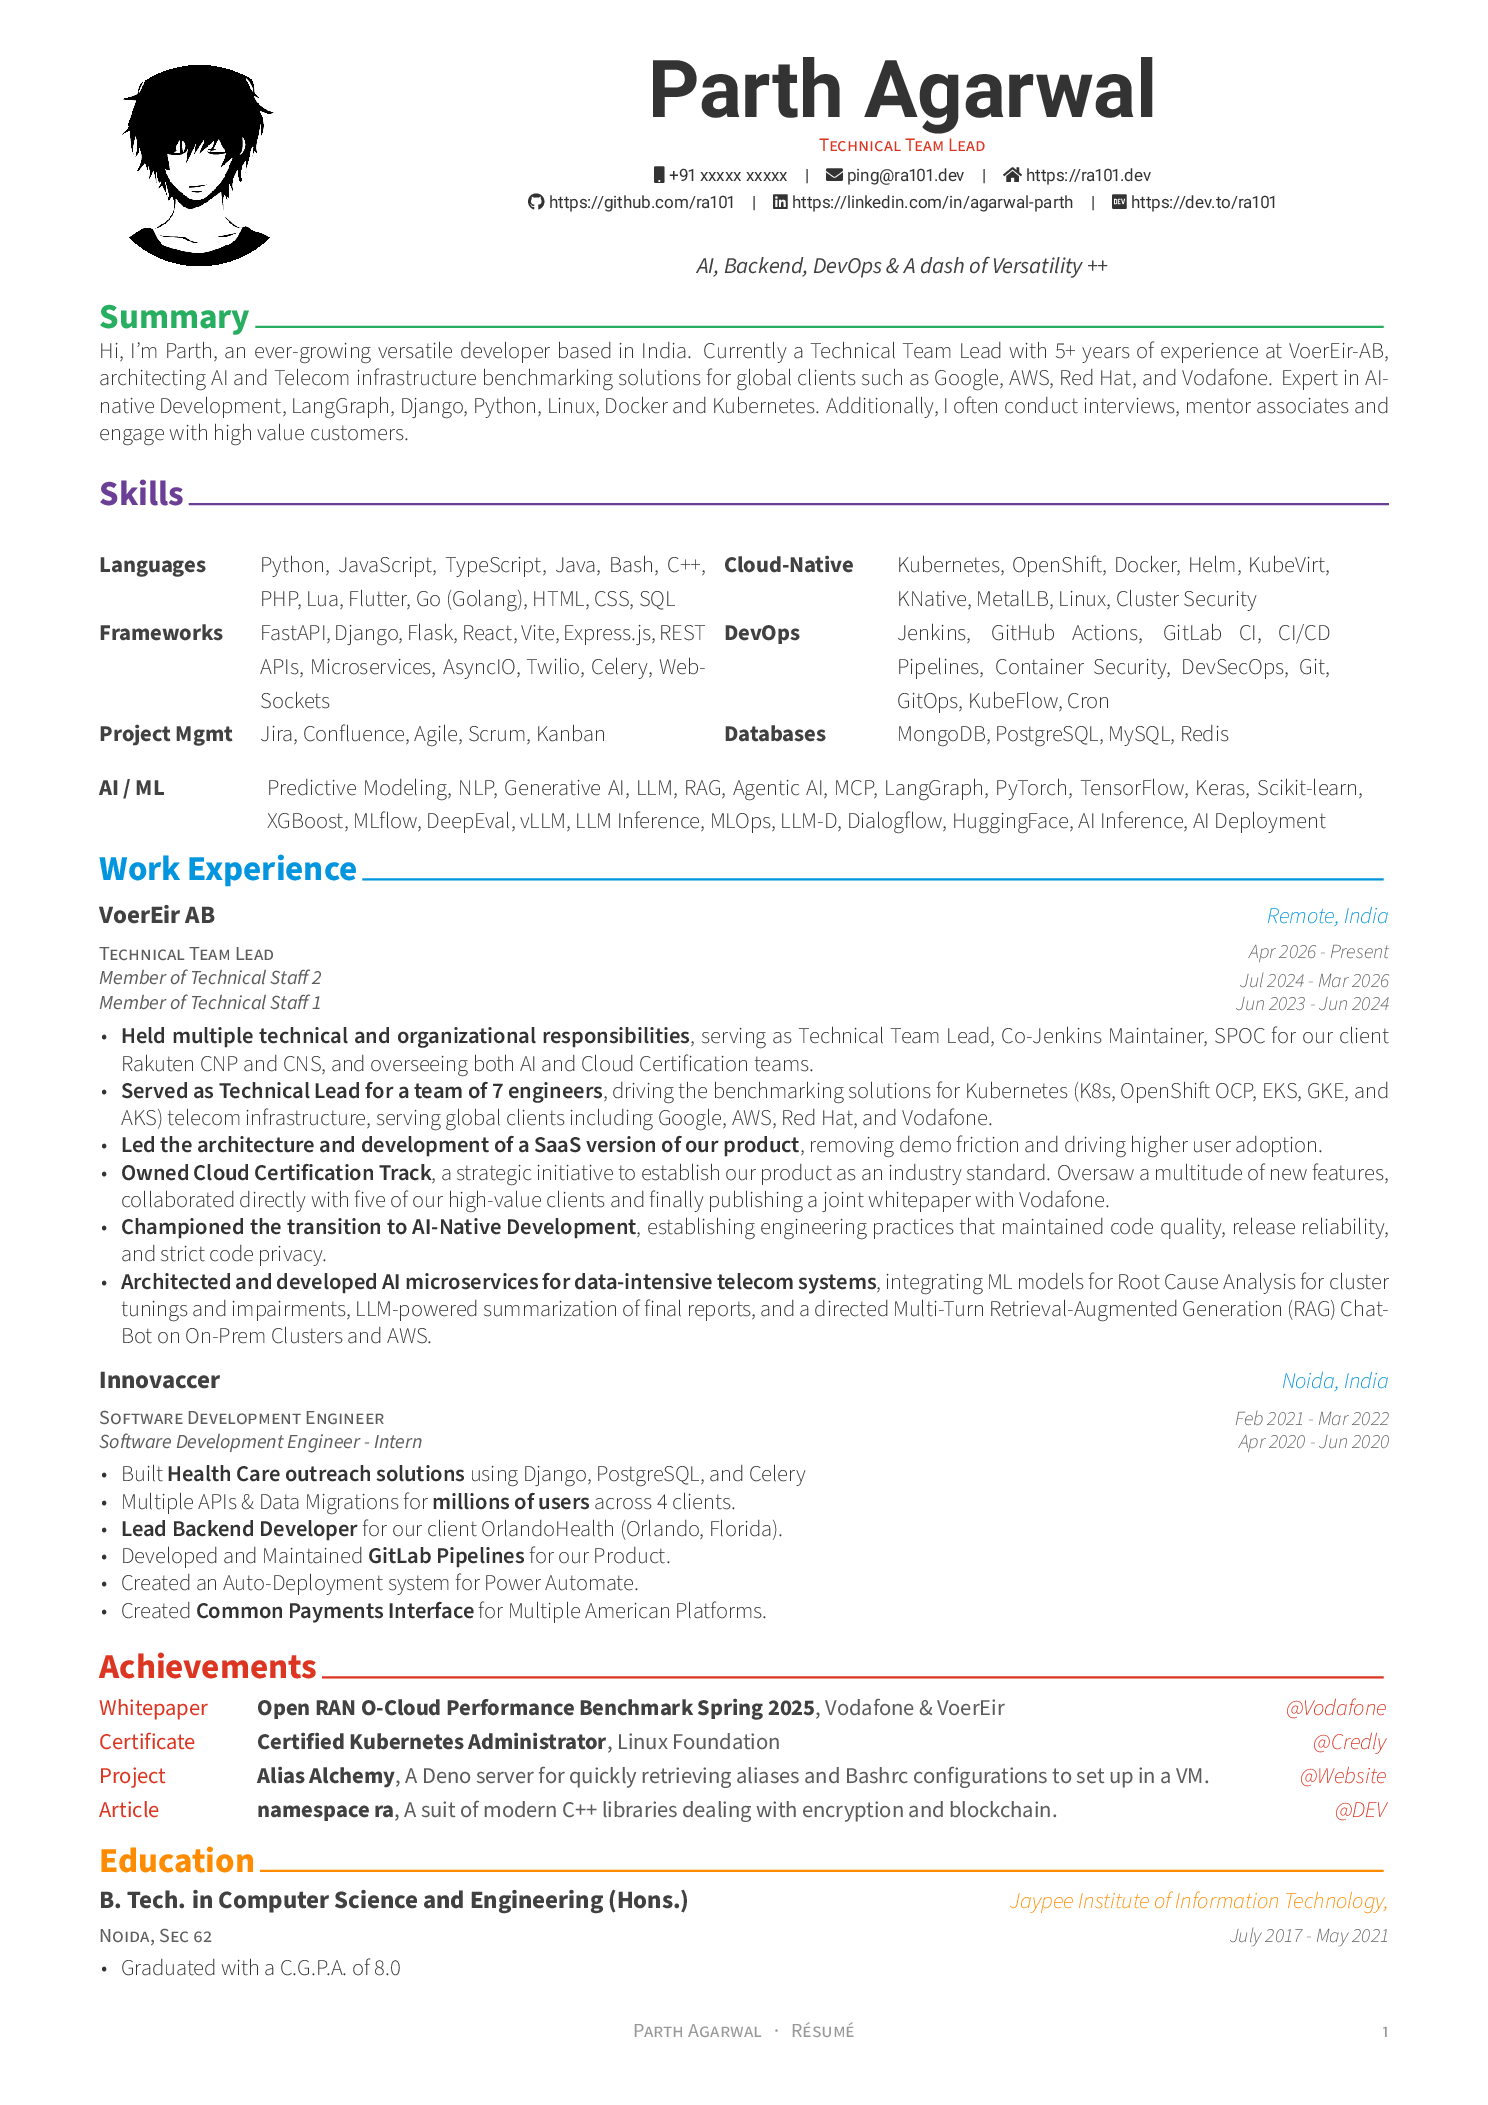
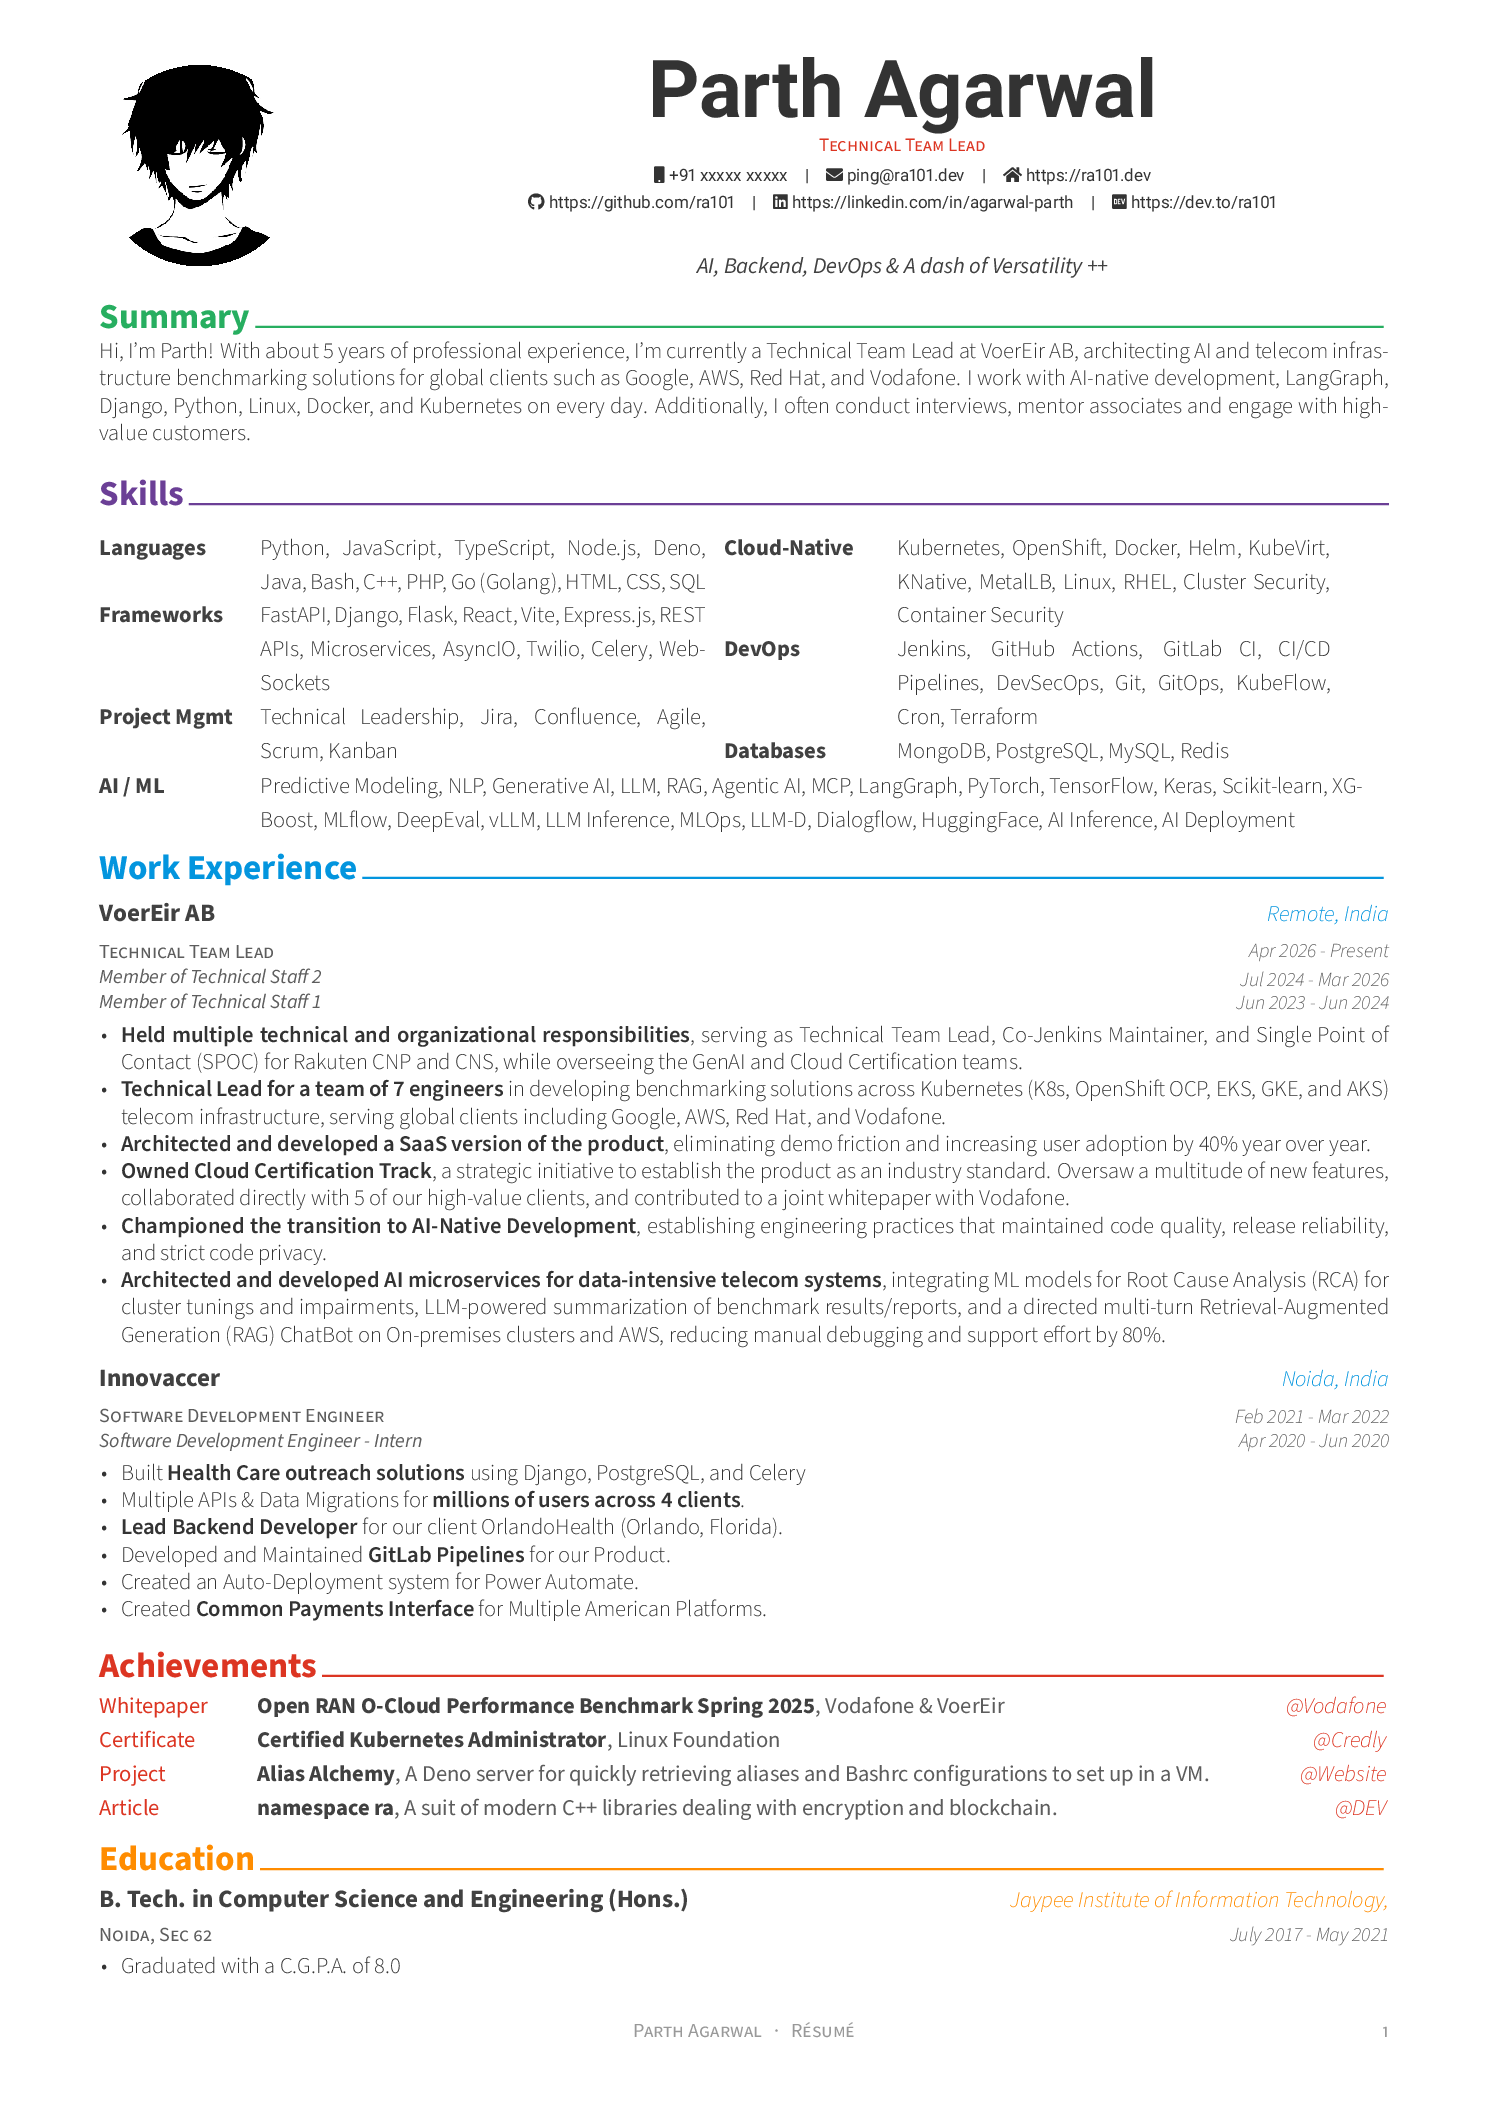
Update Resume

diff --git a/src/coverletter.tex b/src/coverletter.tex
@@ -91,7 +91,7 @@
 
 \begin{cvparagraph}
 \vspace{1em}
-My name is Parth Agarwal, and I am writing to express my interest in joining your team. Over the last few years, I have built and led engineering initiatives spanning various domains. My experience has been shaped by the need to balance deep technical execution with ownership, collaboration, and business impact.
+My name is Parth Agarwal, and I am writing to express my interest in joining your team. As a Technical Team Lead with experience in AI-Native development, backend systems, and cloud-native infrastructure, I bring a combination of hands-on engineering, technical leadership, and product ownership.
 \end{cvparagraph}
 
 
@@ -100,9 +100,9 @@ My name is Parth Agarwal, and I am writing to express my interest in joining you
 
 \begin{cvparagraph}
 \vspace{1em}
-As a Technical Team Lead at VoerEir AB, I lead a cross-functional engineering team building benchmarking and validation platforms for Kubernetes, OpenShift, EKS, GKE, and AKS telecom environments for global operators and technology partners. My role spans technical architecture, roadmap execution, release ownership, and hands-on delivery across cloud-native and AI-enabled product work, while partnering closely with clients such as Vodafone, AWS, Google, and Red Hat. I have also led telecom certification and performance validation initiatives and architected AI-driven services for root-cause analysis, report summarization, and customer-facing RAG-based support tooling.
+At VoerEir AB, I lead a team of seven engineers building benchmarking and validation platforms for Kubernetes, OpenShift, EKS, GKE, and AKS telecom environments. My work spans architecture, roadmap execution, and product delivery, collaborating with global organizations including Vodafone, AWS, Google, and Red Hat. I have also led the development of a SaaS version of our product, contributed to a joint Vodafone whitepaper, and architected AI-powered services for Root Cause Analysis (RCA), Report Summarization, and a Multi-Turn RAG.
 
-Earlier at Innovaccer, I built healthcare outreach and backend systems using Python, Django, PostgreSQL, and Celery while also managing GitLab pipelines, release automation, and large-scale client integrations. That experience strengthened my foundation in distributed systems, backend design, and operational excellence, and it continues to shape how I lead engineering teams today.
+Earlier at Innovaccer, I built healthcare outreach and backend systems using Python, Django, PostgreSQL, and Celery while also managing GitLab pipelines, release automation, and large-scale client integrations. That experience strengthened my foundation in system design, and operational excellence, and it continues to shape how I work today.
 \end{cvparagraph}
 
 \colorlet{awesome}{awesome-orange}
@@ -112,7 +112,7 @@ Earlier at Innovaccer, I built healthcare outreach and backend systems using Pyt
 \begin{cvparagraph}
 What I bring is not only technical depth, but the ability to lead through ambiguity and move teams from idea to delivery. I enjoy building systems that are maintainable, measurable, and valuable to the business; I am comfortable working across platform, infrastructure, and product layers; and I take pride in mentoring engineers while maintaining a strong sense of ownership.
 
-I would welcome the opportunity to bring this mix of leadership, backend engineering, cloud and AI experience, and product thinking to your organization.
+I would welcome the opportunity to bring this mix of leadership, backend, cloud and AI engineering to your organization.
 \end{cvparagraph}
 
 \end{cvletter}

diff --git a/src/resume/experience.tex b/src/resume/experience.tex
@@ -25,12 +25,12 @@
     }} % Date(s)
     {
       \begin{cvitems} % Description(s) of tasks/responsibilities
-        \item {\textbf{Held multiple technical and organizational responsibilities}, serving as Technical Team Lead, Co-Jenkins Maintainer, SPOC for our client Rakuten CNP and CNS, and overseeing both AI and Cloud Certification teams.}
-        \item {\textbf{Served as Technical Lead for a team of 7 engineers}, driving the  benchmarking solutions for Kubernetes (K8s, OpenShift OCP, EKS, GKE, and AKS) telecom infrastructure, serving global clients including Google, AWS, Red Hat, and Vodafone.}
-        \item {\textbf{Led the architecture and development of a SaaS version of our product}, removing demo friction and driving higher user adoption.}
-        \item {\textbf{Owned Cloud Certification Track}, a strategic initiative to establish our product as an industry standard. Oversaw a multitude of new features, collaborated directly with five of our high-value clients and finally publishing a joint whitepaper with Vodafone.}
+        \item {\textbf{Held multiple technical and organizational responsibilities}, serving as Technical Team Lead, Co-Jenkins Maintainer, and Single Point of Contact (SPOC) for Rakuten CNP and CNS, while overseeing the GenAI and Cloud Certification teams.}
+        \item {\textbf{Technical Lead for a team of 7 engineers} in developing benchmarking solutions across Kubernetes (K8s, OpenShift OCP, EKS, GKE, and AKS) telecom infrastructure, serving global clients including Google, AWS, Red Hat, and Vodafone.}
+        \item {\textbf{Architected and developed a SaaS version of the product}, eliminating demo friction and increasing user adoption by 40\% year over year.}
+        \item {\textbf{Owned Cloud Certification Track}, a strategic initiative to establish the product as an industry standard. Oversaw a multitude of new features, collaborated directly with 5 of our high-value clients, and contributed to a joint whitepaper with Vodafone.}
         \item {\textbf{Championed the transition to AI-Native Development}, establishing engineering practices that maintained code quality, release reliability, and strict code privacy.}
-        \item {\textbf{Architected and developed AI microservices for data-intensive telecom systems}, integrating ML models for Root Cause Analysis for cluster tunings and impairments, LLM-powered summarization of final reports, and a directed Multi-Turn Retrieval-Augmented Generation (RAG) ChatBot on On-Prem Clusters and AWS.}
+        \item {\textbf{Architected and developed AI microservices for data-intensive telecom systems}, integrating ML models for Root Cause Analysis (RCA) for cluster tunings and impairments, LLM-powered summarization of benchmark results/reports, and a directed multi-turn Retrieval-Augmented Generation (RAG) ChatBot on On-premises clusters and AWS, reducing manual debugging and support effort by 80\%.}
       \end{cvitems}
     }
 
@@ -49,7 +49,7 @@
     {
       \begin{cvitems} % Description(s) of tasks/responsibilities
         \item {Built \textbf{Health Care outreach solutions} using Django, PostgreSQL, and Celery}
-        \item {Multiple APIs \& Data Migrations for \textbf{millions of users} across 4 clients.}
+        \item {Multiple APIs \& Data Migrations for \textbf{millions of users across 4 clients}.}
         \item {\textbf{Lead Backend Developer} for our client OrlandoHealth (Orlando, Florida).}
         \item {Developed and Maintained \textbf{GitLab Pipelines} for our Product.}
         \item {Created an Auto-Deployment system for Power Automate.}

diff --git a/src/resume/skills.tex b/src/resume/skills.tex
@@ -1,28 +1,30 @@
 \cvsection{Skills}
 \begin{center}
+  \vspace{-2.5mm}
   \begin{minipage}[t]{1\textwidth}
   \begin{minipage}[t]{0.48\textwidth}
     \setlength{\tabcolsep}{0pt}
     \begin{tabular}{@{}p{0.26\linewidth}p{0.72\linewidth}@{}}
-      \cvskill {Languages} {Python, JavaScript, TypeScript, Java, Bash, C++, PHP, Lua, Flutter, Go (Golang), HTML, CSS, SQL}
+      \cvskill {Languages} {Python, JavaScript, TypeScript, Node.js, Deno, Java, Bash, C++, PHP, Go (Golang), HTML, CSS, SQL}
       \cvskill {Frameworks} {FastAPI, Django, Flask, React, Vite, Express.js, REST APIs, Microservices, AsyncIO, Twilio, Celery, WebSockets}
-      \cvskill {Project Mgmt} {Jira, Confluence, Agile, Scrum, Kanban}
+      \cvskill {Project Mgmt} {Technical Leadership, Jira, Confluence, Agile, Scrum, Kanban}
     \end{tabular}
   \end{minipage}
   \begin{minipage}[t]{0.48\textwidth}
     \setlength{\tabcolsep}{0pt}
     \begin{tabular}{@{}p{0.28\linewidth}p{0.70\linewidth}@{}}
-      \cvskill {Cloud-Native} {Kubernetes, OpenShift, Docker, Helm, KubeVirt, KNative, MetalLB, Linux, Cluster Security}
-      \cvskill {DevOps} {Jenkins, GitHub Actions, GitLab CI, CI/CD Pipelines, Container Security, DevSecOps, Git, GitOps, KubeFlow, Cron}
+      \cvskill {Cloud-Native} {Kubernetes, OpenShift, Docker, Helm, KubeVirt, KNative, MetalLB, Linux, RHEL, Cluster Security, Container Security}
+      \cvskill {DevOps} {Jenkins, GitHub Actions, GitLab CI, CI/CD Pipelines, DevSecOps, Git, GitOps, KubeFlow, Cron, Terraform}
       \cvskill {Databases} {MongoDB, PostgreSQL, MySQL, Redis}
     \end{tabular}
   \end{minipage}
   \end{minipage}
 \end{center}
 \begin{center}
+  \vspace{-2.5mm}
   \begin{minipage}[t]{1\textwidth}
     \setlength{\tabcolsep}{0pt}
-    \begin{tabular}{@{}p{0.13\linewidth}p{0.85\linewidth}@{}}
+    \begin{tabular}{@{}p{0.125\linewidth}p{0.855\linewidth}@{}}
       \cvskill {AI / ML} {Predictive Modeling, NLP, Generative AI, LLM, RAG, Agentic AI, MCP, LangGraph, PyTorch, TensorFlow, Keras, Scikit-learn, XGBoost, MLflow, DeepEval, vLLM, LLM Inference, MLOps, LLM-D, Dialogflow, HuggingFace, AI Inference, AI Deployment}
     \end{tabular}
   \end{minipage}

diff --git a/src/resume/summary.tex b/src/resume/summary.tex
@@ -10,5 +10,5 @@
 \begin{cvparagraph}
 
 %---------------------------------------------------------
-Hi, I'm Parth, an ever-growing versatile developer based in India. Currently a Technical Team Lead with 5+ years of experience at VoerEir-AB, architecting AI and Telecom infrastructure benchmarking solutions for global clients such as Google, AWS, Red Hat, and Vodafone. Expert in AI-native Development, LangGraph, Django, Python, Linux, Docker and Kubernetes. Additionally, I often conduct interviews, mentor associates and engage with high value customers.
+Hi, I'm Parth! With about 5 years of professional experience, I'm currently a Technical Team Lead at VoerEir AB, architecting AI and telecom infrastructure benchmarking solutions for global clients such as Google, AWS, Red Hat, and Vodafone. I work with AI-native development, LangGraph, Django, Python, Linux, Docker, and Kubernetes on every day. Additionally, I often conduct interviews, mentor associates and engage with high-value customers.
 \end{cvparagraph}
